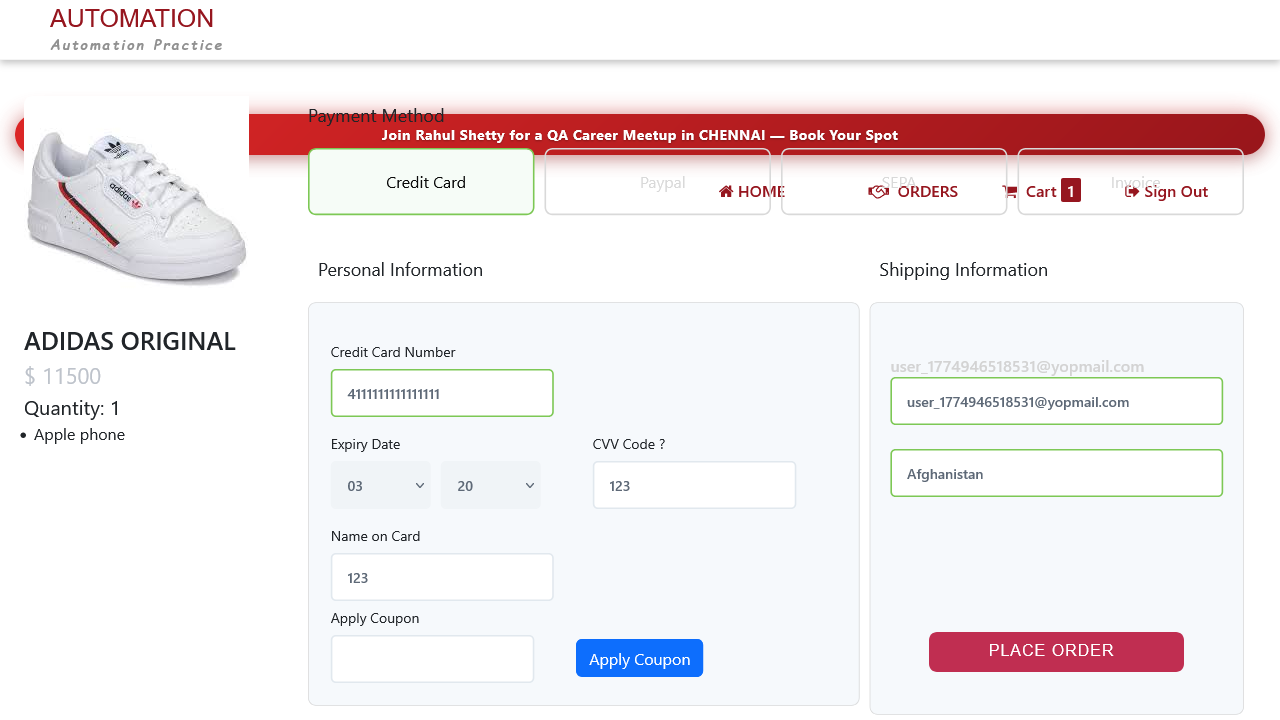
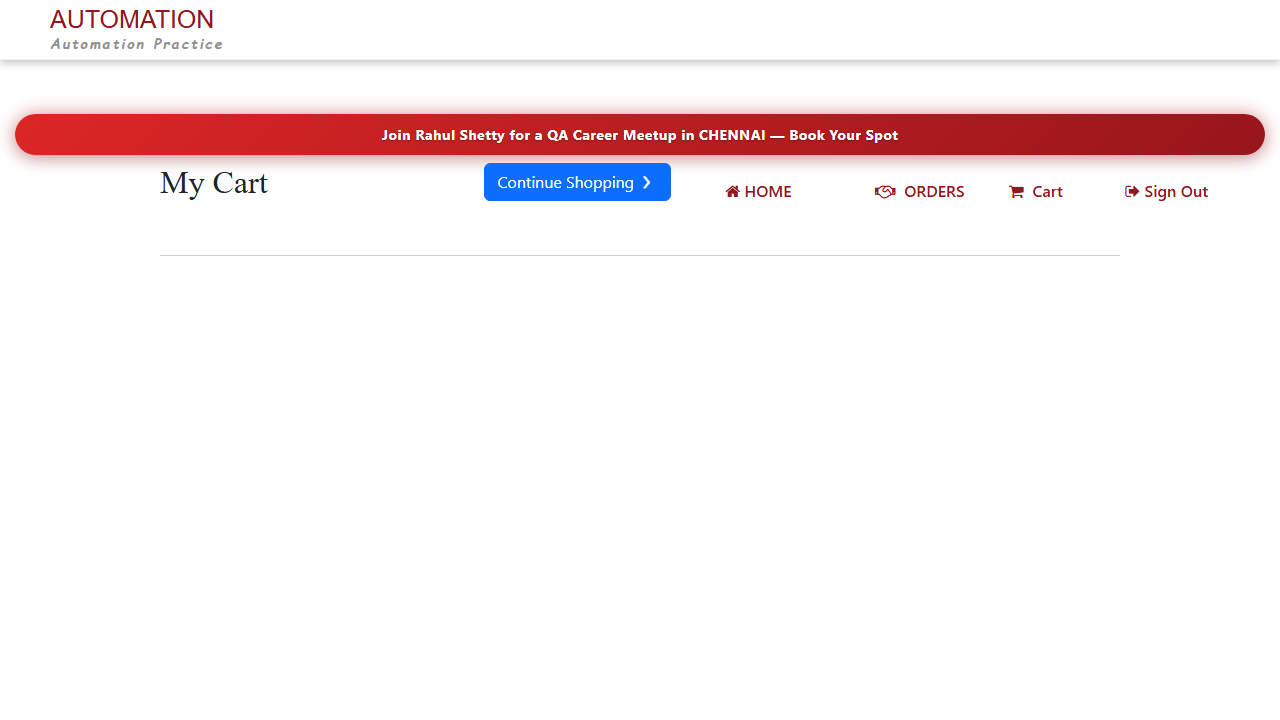
place order

diff --git a/tests/dynamic.spec.js b/tests/dynamic.spec.js
@@ -105,6 +105,27 @@ test('Verify the user register', async ({ page }) => {
   await page.click('#login');
 
 
+  //Click on differenet pages
+
+  //click on home page
+
+  await highlight(page,'//button[normalize-space()="HOME"]')
+  await page.locator('//button[normalize-space()="HOME"]').click()
+
+    //click on Orders page
+
+  await highlight(page,'//button[@routerlink="/dashboard/myorders"]')
+  await page.locator('//button[@routerlink="/dashboard/myorders"]').click()
+ //click on Cart page
+
+  //await highlight(page,'//button[@routerlink="/dashboard/cart"]')
+  //await page.locator('//button[@routerlink="/dashboard/cart"]').click()
+
+//click on home page for move back
+
+  await highlight(page,'//button[normalize-space()="HOME"]')
+  await page.locator('//button[normalize-space()="HOME"]').click()
+
   //Filter the products
   await highlight(page, "//section[@id='sidebar']//input[@placeholder='search']")
 
@@ -268,33 +289,40 @@ test('Verify the user register', async ({ page }) => {
   await highlight(page, '//input[@class="input txt text-validated ng-untouched ng-pristine ng-valid"]')
   await page.locator('//input[@class="input txt text-validated ng-untouched ng-pristine ng-valid"]').fill(username)
 
-  /*
-  // Click input
-  await page.locator('input[placeholder="Select Country"]').click();
-  
-  await page.locator('input[placeholder="Select Country"]').fill('Afghanistan');
-  
-  // Press Arrow Down
-  await page.keyboard.press('ArrowDown');
-  // Press Enter to select first option
-  await page.keyboard.press('Enter');
-  await page.getByText('Afghanistan', { exact: true })
-  
-  */
-
+ 
+//Handle dynamic country selector 
   const Countryselect = page.locator('//input[@placeholder="Select Country"]')
   await Countryselect.clear({ delay: 1000 })
   await Countryselect.pressSequentially('afg', { delay: 1000 })
   await page.locator("//section[@class='ta-results list-group ng-star-inserted']").getByRole('button')
     .filter({ hasText: ' Afghanistan' }).click()
 
-
+//Click the place order button
   await page.locator('a:has-text("PLACE ORDER")').click()
 
-
+  //History page
+   await highlight(page, '//label[normalize-space()="Orders History Page"]')
   await page.locator('//label[normalize-space()="Orders History Page"]').click()
 
-  await page.locator('//button[normalize-space()="Click To Download Order Details in CSV"]').click()
+  await highlight(page, '//h1[normalize-space()="Your Orders"]')
+  await expect(page.locator('//h1[normalize-space()="Your Orders"]')).toHaveText('Your Orders')
+
+ await highlight(page, '//tbody/tr[1]/td[5]/button[1]')
+ await page.locator('//tbody/tr[1]/td[5]/button[1]').click()
+
+ await highlight(page, '//div[@class="email-title"]')
+await expect(page.locator('//div[@class="email-title"]')).toContainText(' order summary ')
+
+await highlight(page, '//div[@class="artwork-card-image"]//img')
+await page.locator('//div[@class="artwork-card-image"]//img')
+
+await highlight(page, '//div[@class="btn -teal"]')
+await page.locator('//div[@class="btn -teal"]').click()
+
+// click on go back to cart button
+
+await highlight(page, '//button[normalize-space()="Go Back to Cart"]')
+await page.locator('//button[normalize-space()="Go Back to Cart"]').click()
 
 
 
